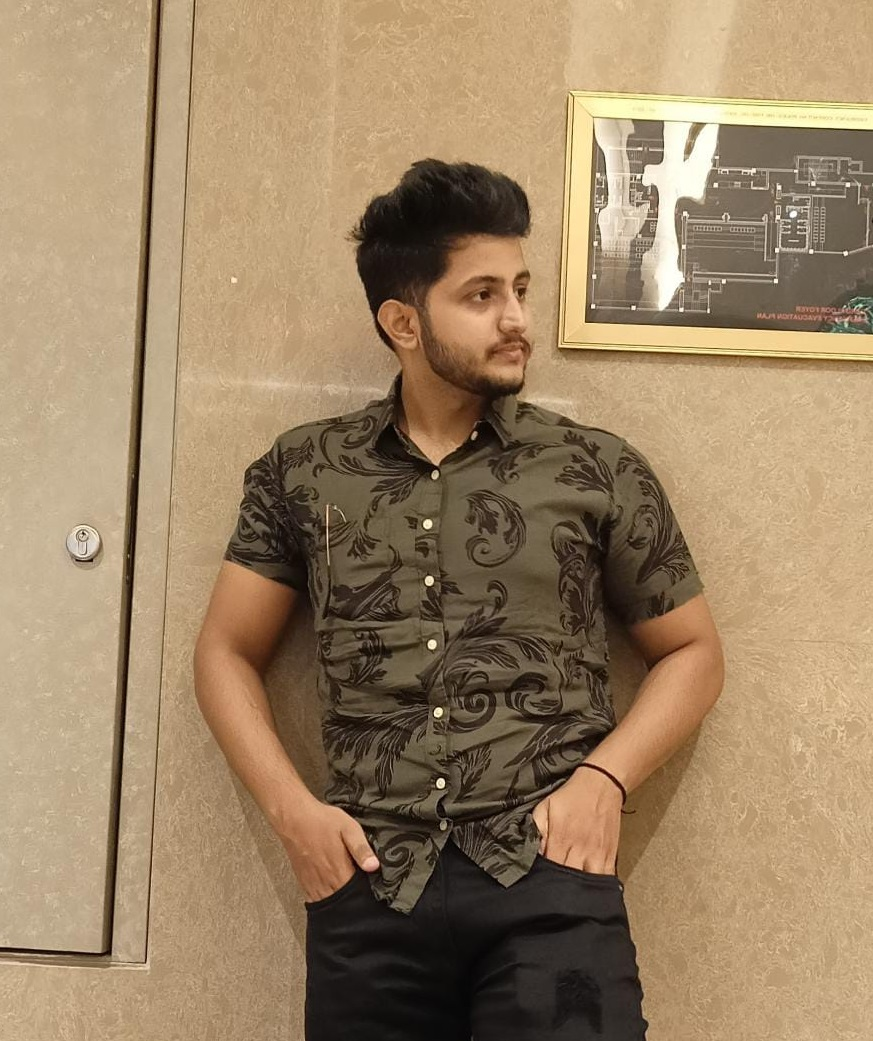
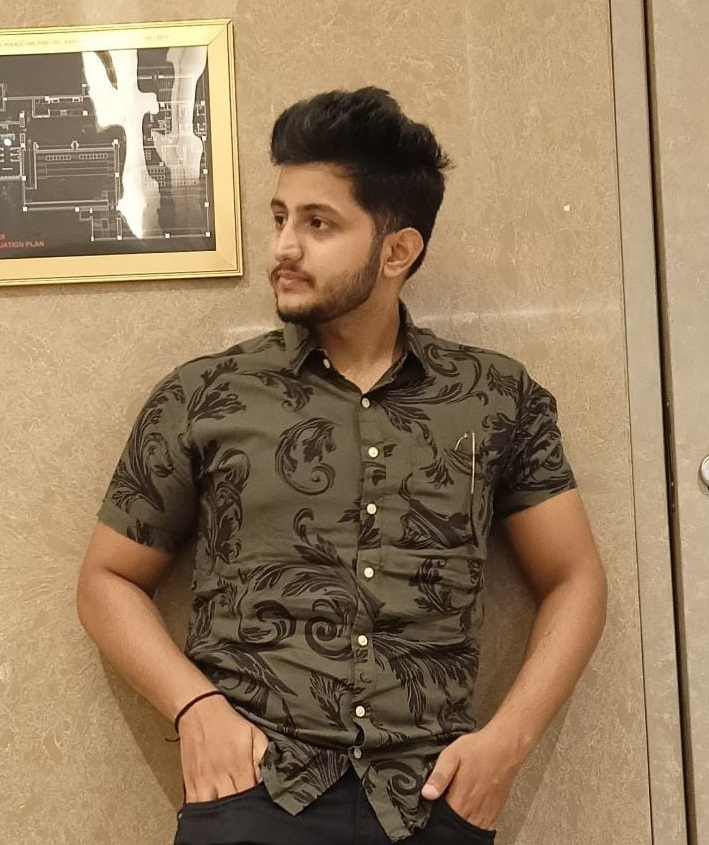
About Page done

diff --git a/src/app/about/page.jsx b/src/app/about/page.jsx
@@ -1,0 +1,109 @@
+"use client";
+import { AnimatedText, Layout } from "@/components";
+import Image from "next/image";
+import React, { useEffect, useRef } from "react";
+import Img from "../../assets/jagmeet.jpeg";
+
+import { useInView, useMotionValue, useSpring } from "framer-motion";
+
+const paraData = [
+  {
+    para: "Hi, I'm Jagmeet Singh, a web developer with a passion for creating beautiful, functional, and user-centered digital experiences. I am always looking for new and innovative ways to bring my client's visions to life.",
+  },
+  {
+    para: "I believe that design is about more than just making things look pretty - it's about solving problems and creating intuitive, enjoyable experiences for users.",
+  },
+  {
+    para: "  While I'm working on a website, I bring my commitment to design excellence and user-centered thinking to every project I work on. I look forward to the opportunity to bring my skills and passion to your next project.",
+  },
+];
+
+const sideBar = [
+  {
+    title: "10",
+    text: "Projects Completed",
+  },
+  {
+    title: "1",
+    text: "Years of Experience",
+  },
+];
+
+const AnimatedNumbers = ({ value }) => {
+  const ref = useRef(null);
+
+  const motionValue = useMotionValue(0);
+  const springValue = useSpring(motionValue, { duration: 3000 });
+  const isInView = useInView(ref, { once: true });
+
+  useEffect(() => {
+    if (isInView) {
+      motionValue.set(value);
+    }
+  }, [isInView, value, motionValue]);
+
+  useEffect(() => {
+    springValue.on("change", (latest) => {
+      if (ref.current && latest.toFixed(0) <= value) {
+        ref.current.textContent = latest.toFixed(0);
+      }
+    });
+  }, [springValue, value]);
+
+  return <span ref={ref}></span>;
+};
+
+const page = () => {
+  return (
+    <main className="flex w-full flex-col items-center justify-center ">
+      <Layout className="pt-10">
+        <AnimatedText text="Sky is the Limit..." className="mb-16" />
+        <div className="grid w-full grid-cols-8 gap-16">
+          <div className="col-span-3 flex flex-col items-start justify-start">
+            <h2 className="mb-4 text-lg font-bold uppercase text-dark/75">
+              Biography
+            </h2>
+            {paraData.map((item, index) => {
+              return (
+                <p
+                  key={index}
+                  className={
+                    !index % 2 === 0 ? "font-medium my-4" : "font-medium"
+                  }
+                >
+                  {item.para}
+                </p>
+              );
+            })}
+          </div>
+          <div className="col-span-3 relative h-max rounded-2xl border-2 border-solid border-dark p-8">
+            <Image
+              src={Img}
+              alt="Jagmeet Singh"
+              className="w-[30rem] h-auto rounded-2xl shadow-xl"
+            />
+          </div>
+          <div className="col-span-2 flex flex-col items-end ">
+            {sideBar.map((item, index) => {
+              return (
+                <div
+                  key={index}
+                  className="flex flex-col items-end justify-center mt-20"
+                >
+                  <span className="inline-block text-5xl font-semibold">
+                    <AnimatedNumbers value={item.title} />+
+                  </span>
+                  <h2 className="text-xl font-medium capitalize text-dark/75">
+                    {item.text}
+                  </h2>
+                </div>
+              );
+            })}
+          </div>
+        </div>
+      </Layout>
+    </main>
+  );
+};
+
+export default page;

diff --git a/src/app/page.js b/src/app/page.js
@@ -1,6 +1,6 @@
 import { AnimatedText, Layout } from "@/components";
 
-import Img from "../assets/jagmeet.jpeg";
+import Img from "../assets/jagmeet1.jpg";
 import Image from "next/image";
 import Link from "next/link";
 import { LinkArrow } from "@/components/Icons";
@@ -8,9 +8,13 @@ export default function Home() {
   return (
     <main className="flex items-center text-dark w-full min-h-screen ">
       <Layout className="pt-0">
-        <div className="flex items-center justify-between w-full">
+        <div className="flex items-center justify-between w-full mt-10">
           <div className="w-1/2">
-            <Image src={Img} alt="Jagmeet Singh" className="w-96 rounded-xl " />
+            <Image
+              src={Img}
+              alt="Jagmeet Singh"
+              className="w-[28rem] rounded-xl "
+            />
           </div>
           <div className="w-1/2 flex flex-col items-center self-center">
             <AnimatedText

diff --git a/src/components/Navbar.jsx b/src/components/Navbar.jsx
@@ -57,7 +57,7 @@ const CustomLink = ({ href, title, className = "" }) => {
 
 const Navbar = () => {
   return (
-    <main className="w-full px-28 py-5 font-medium flex items-center justify-between">
+    <main className="w-full px-28 py-7 font-medium flex items-center justify-between ">
       <nav>
         {navPages.map((page, index) => {
           return (
